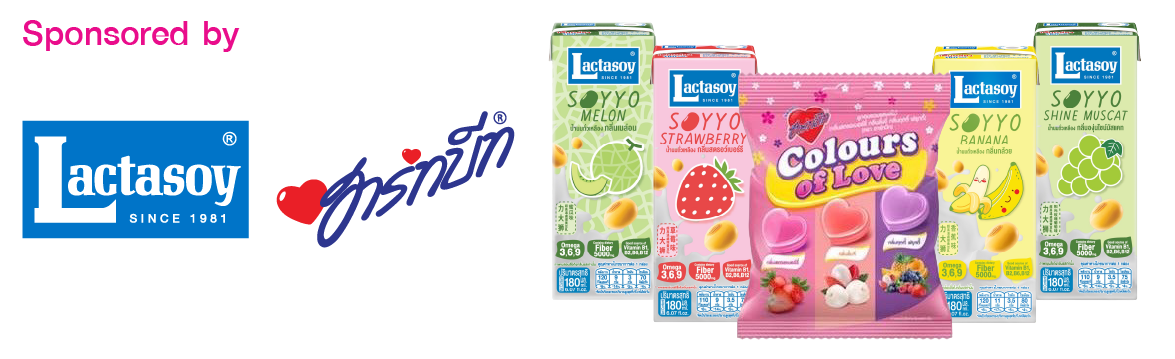
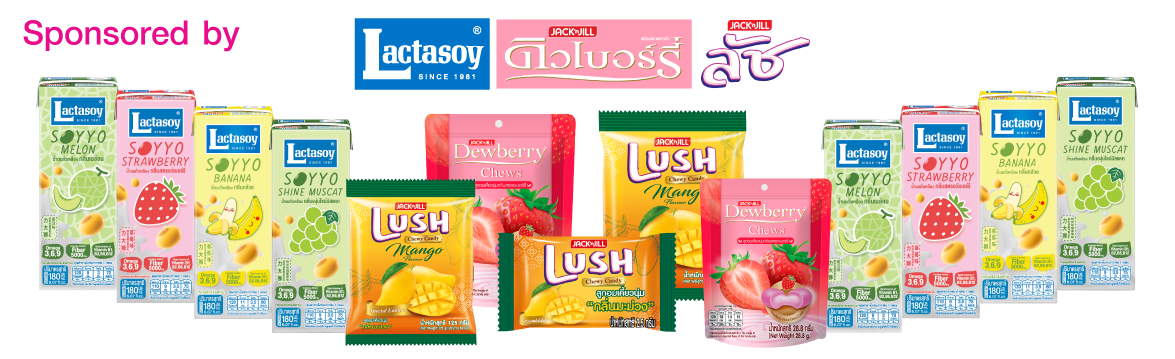
gift&sponsor

diff --git a/corporate-Frontend/src/components/landingpage/B426/landingpage.js b/corporate-Frontend/src/components/landingpage/B426/landingpage.js
@@ -107,31 +107,21 @@ export default function Landingpage(props) {
         </>
       )}
       {/*----------------- ส่วนของ sponsor -----------------*/}
-      {/* {bannerLoaded && (
-        <div className="premium my-6 mb-10 mt-10">
-          {new Date() < new Date("2026-08-10T00:00:00Z") ? (
-            <img
-              src={require("./img/sponsor.jpg")}
+      {bannerLoaded && (
+        <div className="premium my-6 mb-10 mt-10"> 
+          <img
+              src={require("./img/gift.png")}
               alt="premium bag"
               id="premium"
               className="mx-auto w-[90%] lg:w-1/3 xl:w-3/4"
-            />
-            
-          ) : (
-            <img
-              src={require("./img/sponsor.jpg")}
-              alt="premium bag"
-              id="premium"
-              className="mx-auto w-[90%] lg:w-1/3 xl:w-3/4"
-            />
-          )}
+          />     
           <img
             src={require("./img/sponsor.png")}
             alt="sponsor"
             className="mx-auto w-[90%] lg:w-1/3 xl:w-3/4"
-          />
+          />         
         </div>
-      )} */}
+      )}
 
       <div
         ref={clickBottom}
